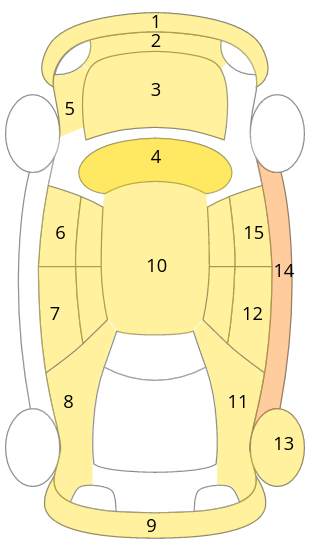
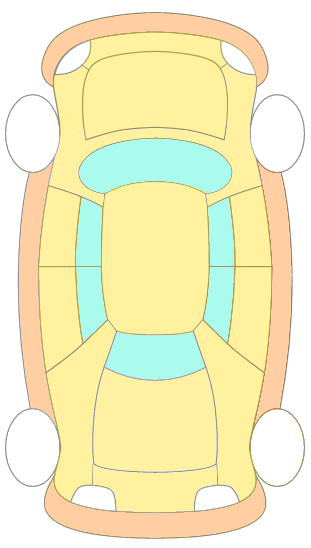
refactor: update the car image and dmg button position

diff --git a/annotation_tool/annotate.py b/annotation_tool/annotate.py
@@ -207,8 +207,8 @@ class Annotator:
             # coloring alternative lines of listbox
             # damage_list.itemconfig(dmg_index, bg="orange" if dmg_index % 2 == 0 else "yellow")
 
-        b1 = Button(self.left_frame, text="Front damages", command=lambda: self.display_damage_choices(self.front_damage_list, b1, 32, 50))
-        b1.place(x=95, y=50, anchor="nw")
+        b1 = Button(self.left_frame, text="Front damages", command=lambda: self.display_damage_choices(self.front_damage_list, b1, 32, 75))
+        b1.place(x=95, y=75, anchor="nw")
 
         b2 = Button(self.left_frame, text="Side damages", command=lambda: self.display_damage_choices(self.side_damage_list, b2, 207, 250))
         b2.place(x=95, y=250, anchor="nw")
